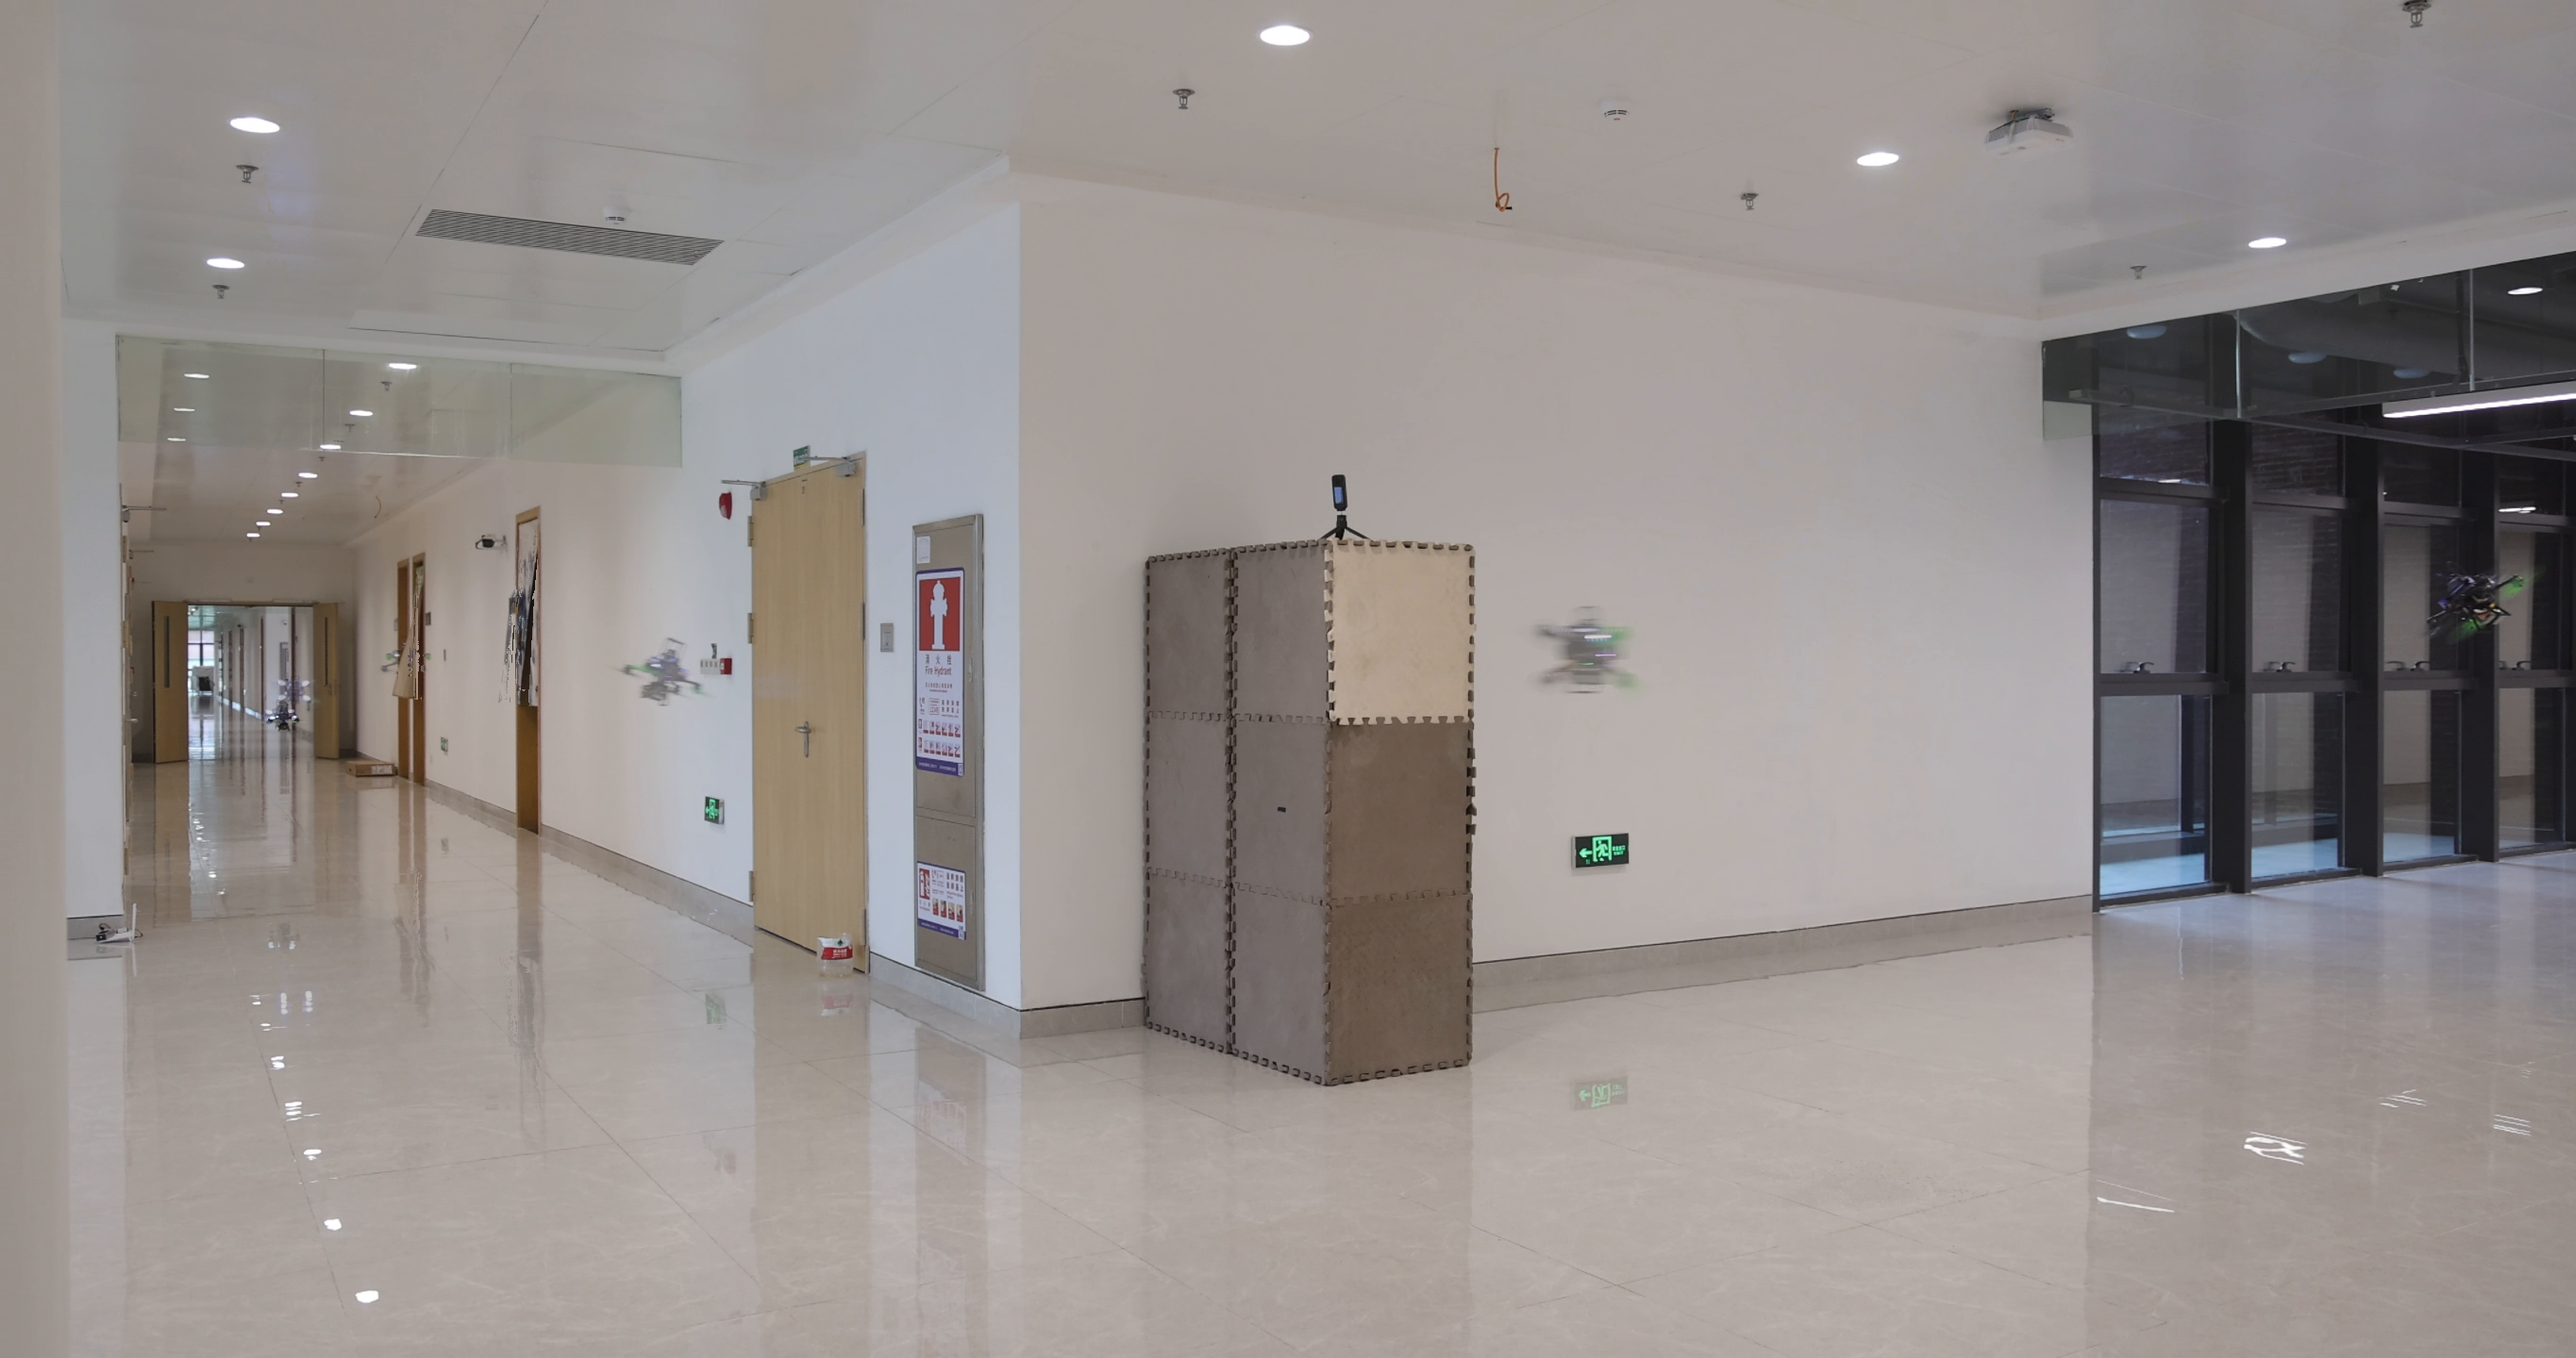
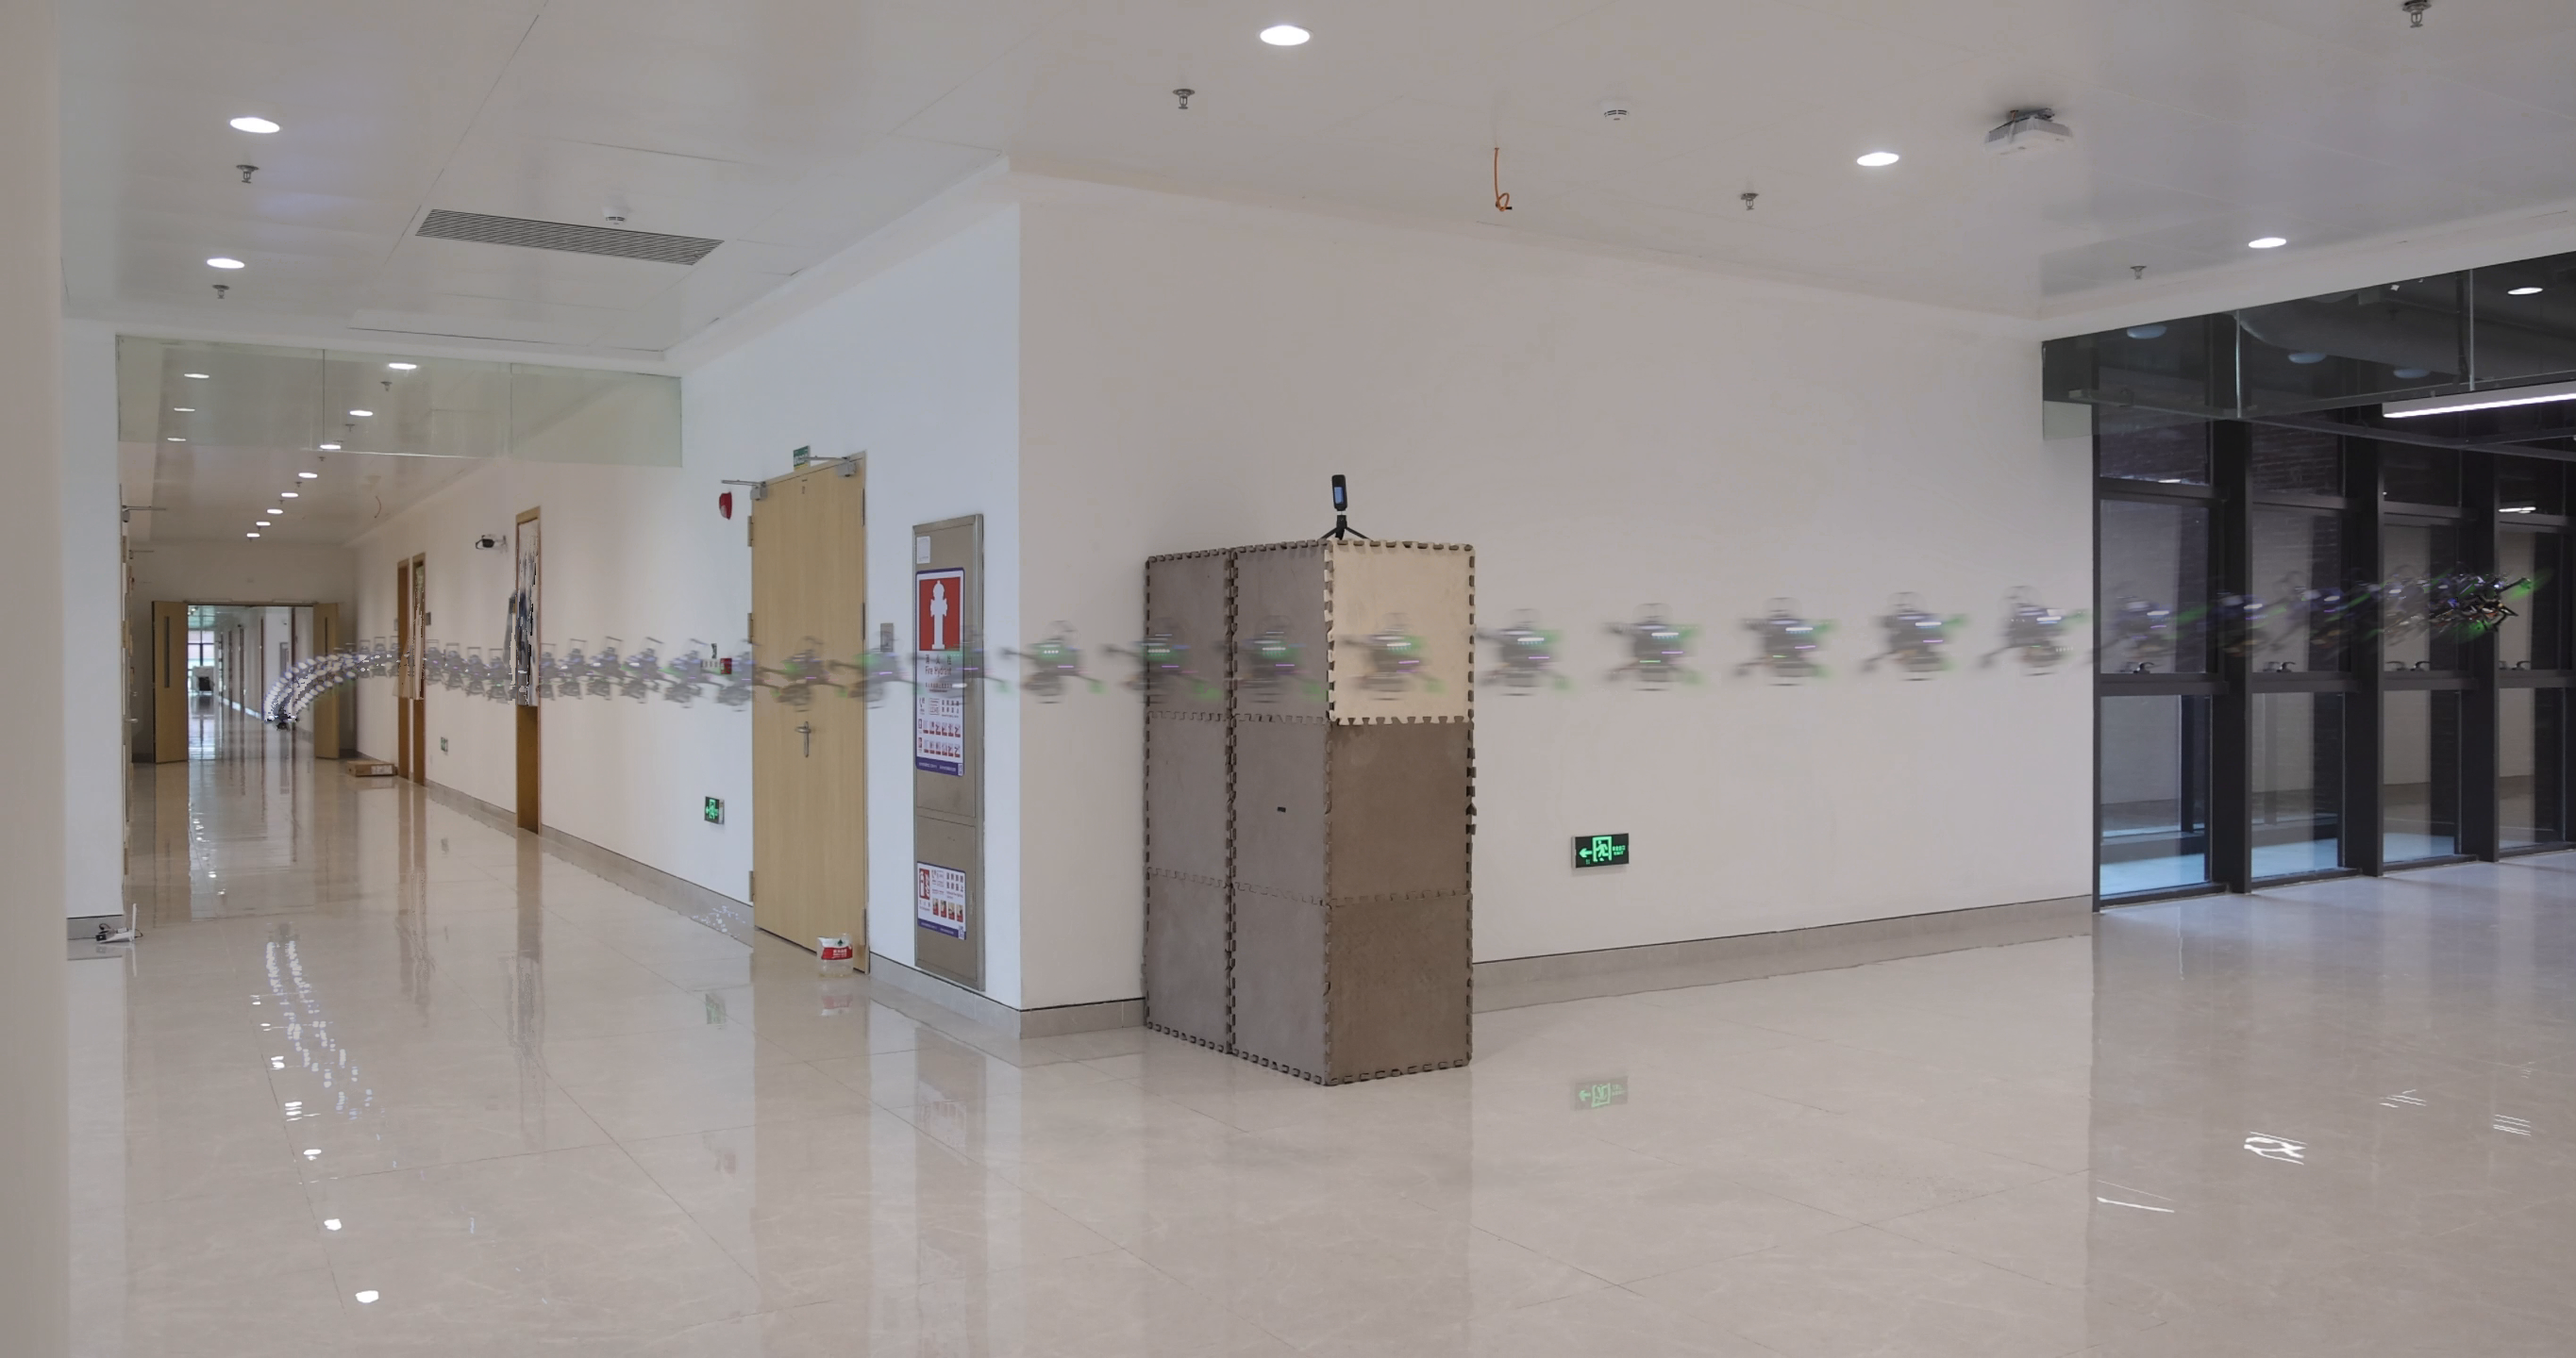
fix first frame bug maybe

Changed region(s): [[0.0934, 0.4062, 0.9963, 0.5312], [0.0934, 0.6875, 0.1245, 0.7812]]

diff --git a/src/dynamo_figures/composite_image.py b/src/dynamo_figures/composite_image.py
@@ -106,9 +106,10 @@ class CompositeImage:
         while video.isOpened() and frame_count <= (end_frame - start_frame):
             ret, frame = video.read()
             if ret:
-                frame_count += 1
                 if (frame_count % self.skip_frame != 0):
+                    frame_count += 1
                     continue
+                else: frame_count += 1
                 imgs.append(frame)
 
                 if frame_count > (end_frame - start_frame):
